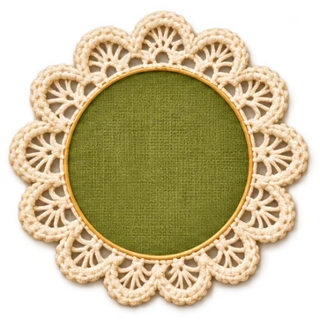
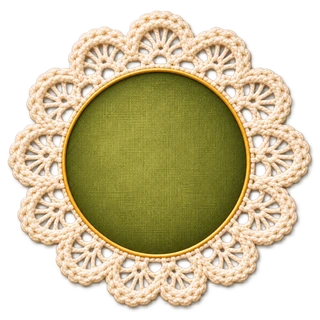
Knowledge map: new green medallion, check and padlock badges, 150px extra space left and right
Claude-Session: https://claude.ai/code/session_01LvBFGzeMfHTaYJ7uVyqQ2u

diff --git a/css/knowledge-tree.css b/css/knowledge-tree.css
@@ -106,3 +106,8 @@ body.kt-open #ktRoot{display:flex}
 
 .kt-corner{position:absolute;width:112px;height:100px;background:url(../assets/ui/karta/kut_vez.webp) 0 0/100% 100% no-repeat;pointer-events:none;z-index:0}
 .kt-corner.br{transform:rotate(180deg)}
+
+/* Novi znaci: kvačica kad je kupljeno, katanac kad je zaključano (slike koje je Miloš nacrtao) */
+.kt-lay.st-done::after{content:'';position:absolute;left:calc(50% + var(--D)*.16);top:calc(var(--D)*.62);width:calc(var(--D)*.3);height:calc(var(--D)*.3);pointer-events:none;z-index:3;background:url(../assets/ui/karta/znak_kupljeno.webp) center/contain no-repeat;filter:drop-shadow(0 2px 2px rgba(40,22,6,.45))}
+.kt-card.st-lock.kt-lay::after{left:calc(50% + var(--D)*.16);top:calc(var(--D)*.62);width:calc(var(--D)*.3);height:calc(var(--D)*.3);background:url(../assets/ui/karta/znak_katanac.webp) center/contain no-repeat;filter:drop-shadow(0 2px 2px rgba(40,22,6,.45))}
+.kt-stage{position:absolute;left:150px;top:0;height:100%}

diff --git a/index.html b/index.html
@@ -16,7 +16,7 @@
 <link href="css/ui-visible-shadow.css?v=1" rel="stylesheet"/>
 <link href="css/ui-scene-light.css?v=5" rel="stylesheet"/>
 <link href="css/ke-pergament.css?v=14" rel="stylesheet"/>
-<link href="css/knowledge-tree.css?v=17" rel="stylesheet"/>
+<link href="css/knowledge-tree.css?v=18" rel="stylesheet"/>
 <link href="css/pantry-scene.css?v=3.12" rel="stylesheet"/>
 <link href="css/tavern-scene.css?v=2" rel="stylesheet"/>
 </head>
@@ -243,7 +243,7 @@
 <script src="js/ke-unroll.js?v=8"></script>
 <script src="js/data/knowledge-tree-data.js?v=4"></script>
 <script src="js/data/karta-raspored.js?v=3"></script>
-<script src="js/knowledge-tree.js?v=20"></script>
+<script src="js/knowledge-tree.js?v=21"></script>
 <script src="js/stir-fluid.js?v=42"></script>
 <script src="js/pan-sizzle.js?v=1"></script>
 <script src="js/mince-atlas.js?v=3"></script>

diff --git a/js/knowledge-tree.js b/js/knowledge-tree.js
@@ -177,6 +177,7 @@ function renderBoard(){
   metrics();inner.innerHTML='';inner.style.width=M.w+'px';
   inner.style.setProperty('--D',M.D+'px');
   var LAYMODE=!!LT[S.tab],mine=cards.filter(function(c){return c.t===S.tab;});
+  var HOLDER=null;if(LAYMODE){HOLDER=inner;var STG=el('div','kt-stage');HOLDER.appendChild(STG);inner=STG;}
   if(LAYMODE)layoutExtras();
   if(LAYMODE){var k1=el('div','kt-corner');k1.style.left='4px';k1.style.top='4px';inner.appendChild(k1);var k2=el('div','kt-corner br');k2.style.left=(M.w-116)+'px';k2.style.top='570px';inner.appendChild(k2);}
   else{
@@ -225,6 +226,7 @@ function renderBoard(){
     d.addEventListener('click',function(){onCard(c,d);});
     inner.appendChild(d);
   });
+  if(HOLDER){inner=HOLDER;HOLDER.style.width=(M.w+300)+'px';}
 }
 function showTip(c,d){
   var st=status(c),src=artFor(c),pc=price(c),h='';
